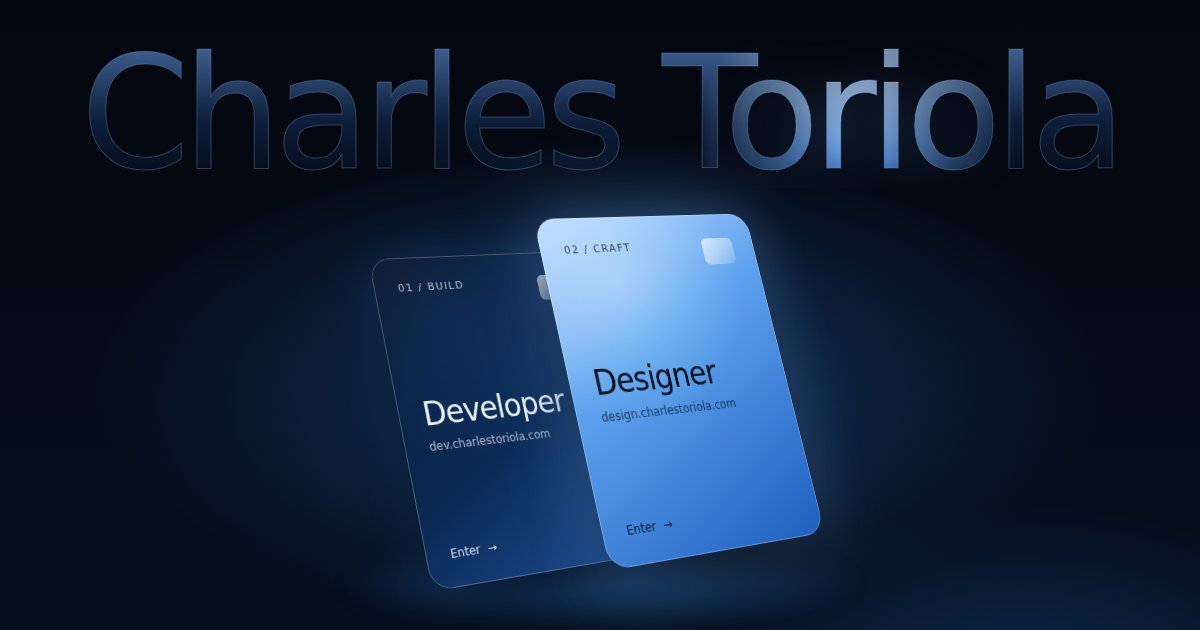
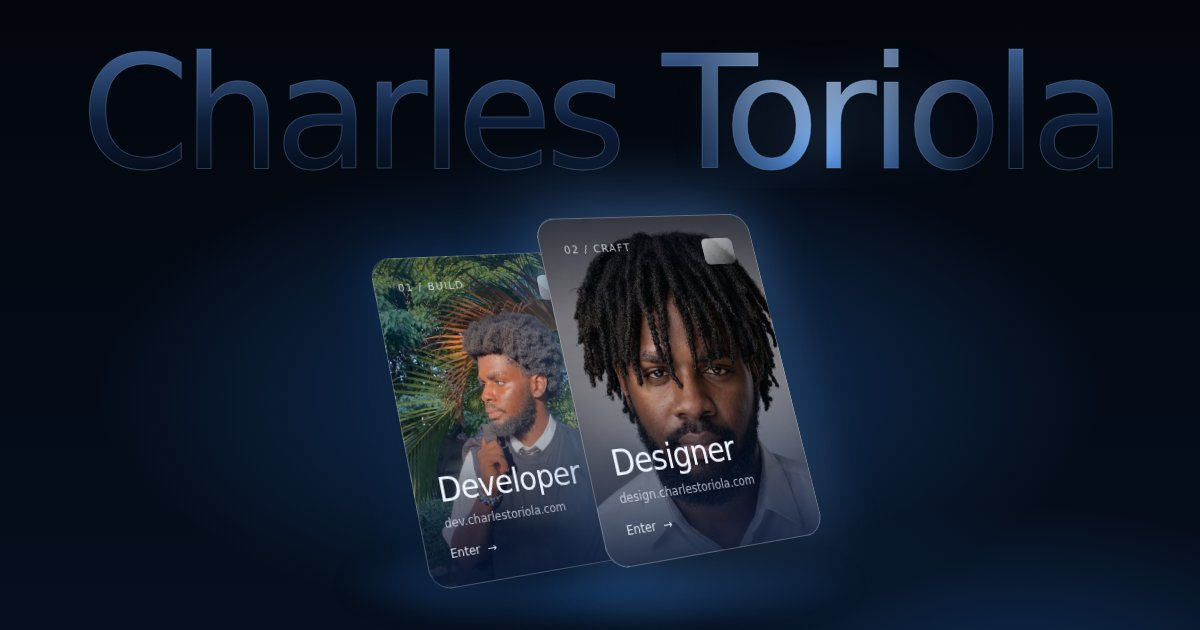
Photo covers on Developer and Designer cards; refresh OG image
Claude-Session: https://claude.ai/code/session_01PsQEfWWQv3HccVkgXHnVec

Changed region(s): [[0.3083, 0.3317, 0.7092, 0.9349], [0.7092, 0.1206, 0.8325, 0.2714], [0.5858, 0.1206, 0.6783, 0.2714]]

diff --git a/index.html b/index.html
@@ -249,6 +249,25 @@
     --base: translate3d(80px, -20px, 40px) rotateX(18deg) rotateY(28deg) rotateZ(-14deg);
     transform: var(--base);
   }
+  /* photo covers */
+  .card .cover {
+    position: absolute; inset: 0; border-radius: inherit; z-index: 0;
+    background-size: cover; background-repeat: no-repeat;
+    transition: transform 1.2s cubic-bezier(.2,.8,.2,1);
+  }
+  .card .cover::after { /* keep the labels legible over the photo */
+    content: ""; position: absolute; inset: 0; border-radius: inherit;
+    background: linear-gradient(180deg, rgba(3,10,25,.55) 0%, rgba(3,10,25,.05) 30%, rgba(3,10,25,.15) 50%, rgba(5,20,50,.88) 100%);
+  }
+  .card-dev .cover { background-image: url("assets/card-dev.jpg"); background-position: 45% 30%; }
+  .card-design .cover { background-image: url("assets/card-design.jpg"); background-position: 50% 25%; }
+  .stage.is-dev .card-dev .cover, .stage.is-design .card-design .cover { transform: scale(1.06); }
+  .card > *:not(.cover) { position: relative; z-index: 1; }
+  .card { justify-content: flex-start; }
+  .card > .card-top + div { margin-top: auto; }
+  .card .go { margin-top: 16px; }
+  .card-design { color: var(--ink); }
+  .card h2 { text-shadow: 0 2px 18px rgba(0,0,0,.5); }
   .card-top { display: flex; justify-content: space-between; align-items: flex-start; transform: translateZ(40px); }
   .card-tag { font-size: 11px; letter-spacing: .14em; text-transform: uppercase; opacity: .75; }
   .card-chip {
@@ -523,6 +542,7 @@
     <a class="hit hit-design" data-site="design" href="https://design.charlestoriola.com" aria-label="Design work — design.charlestoriola.com"></a>
     <div class="floaty">
       <div class="card card-dev">
+        <div class="cover" aria-hidden="true"></div>
         <div class="card-top"><span class="card-tag">01 / Build</span><span class="card-chip"></span></div>
         <div>
           <h2>Developer</h2>
@@ -531,6 +551,7 @@
         <span class="go">Enter <span>→</span></span>
       </div>
       <div class="card card-design">
+        <div class="cover" aria-hidden="true"></div>
         <div class="card-top"><span class="card-tag">02 / Craft</span><span class="card-chip"></span></div>
         <div>
           <h2>Designer</h2>
